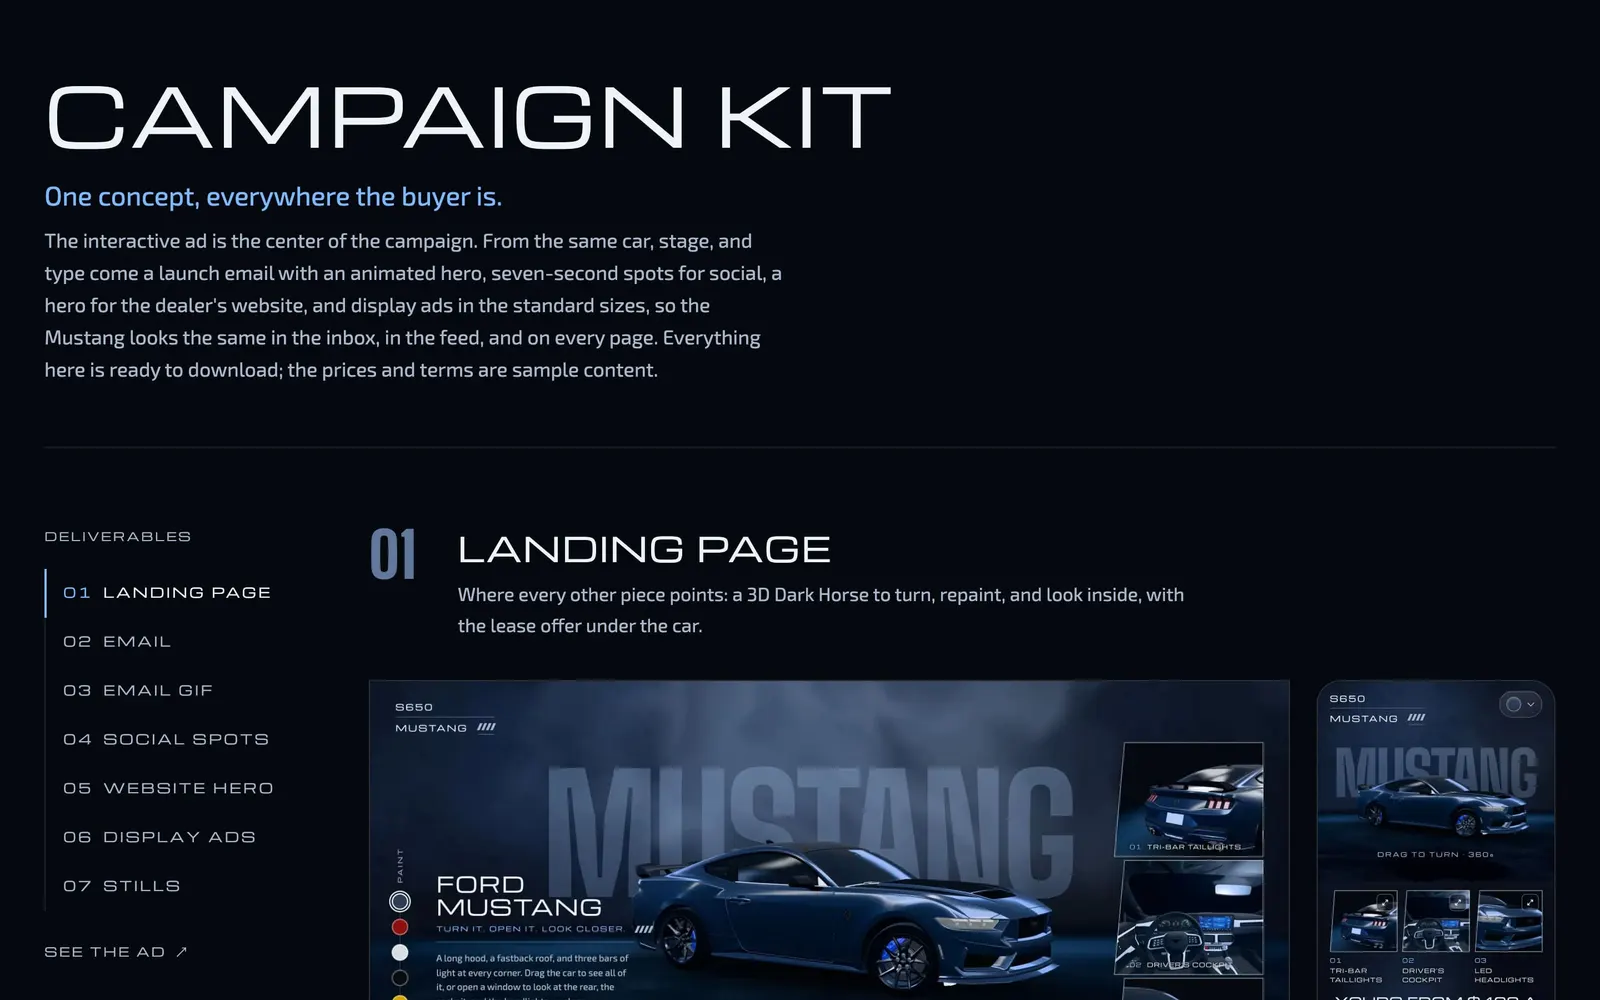
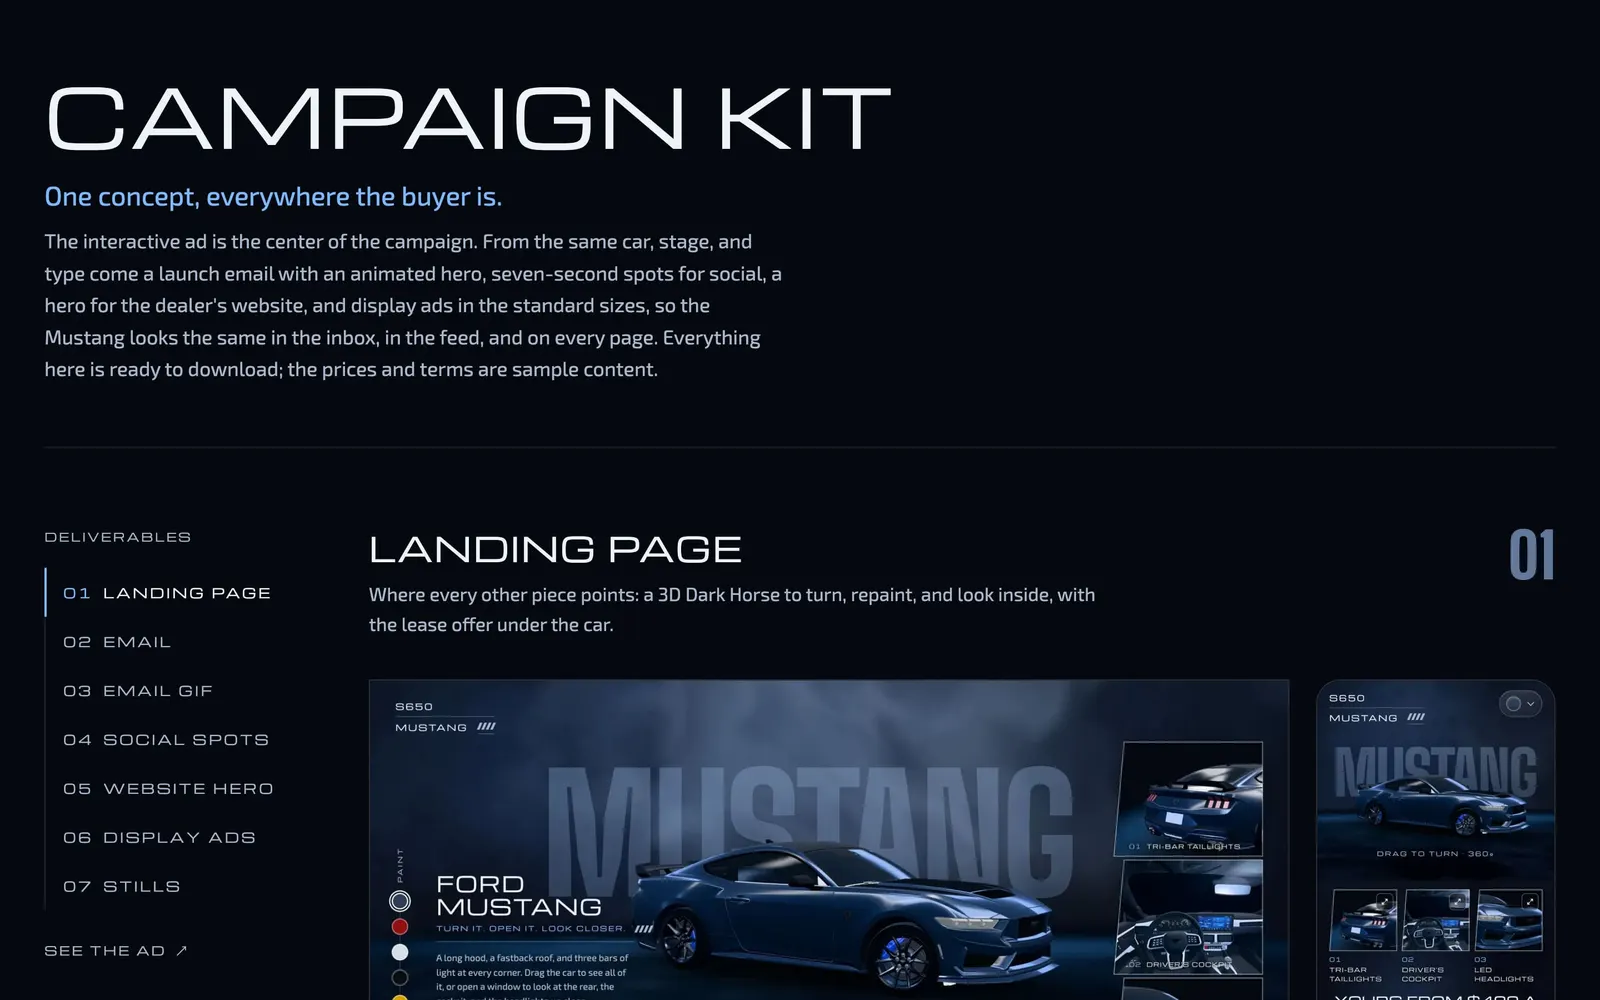
Enhance Mustang campaign kit: update README for clarity, improve CSS styles for ads layout, and adjust image assets for better presentation.

diff --git a/app/pitch/mustang/kit/kit.css b/app/pitch/mustang/kit/kit.css
@@ -5,7 +5,7 @@
 .kit p { margin: 0; }
 .kit-top { display: grid; gap: 6px; justify-items: start; font-family: var(--ms-font-head), sans-serif; font-size: 13px; letter-spacing: 0.18em; text-transform: uppercase; }
 .kit-top span:first-child { padding-bottom: 6px; border-bottom: 1px solid var(--ms-line); }
-.kit-head { padding-bottom: 56px; border-bottom: 1px solid rgba(255, 255, 255, 0.12); }
+.kit-head { padding-bottom: 56px; border-bottom: 1px solid rgba(127, 185, 255, 0.5); }
 .kit-head h1 { margin-top: 72px; font-size: clamp(34px, 5.4vw, 72px); line-height: 1.05; letter-spacing: 0.02em; }
 /* the line under the title, in the accent: the kit's idea in one sentence */
 .kit-tagline { margin-top: 20px !important; font-size: clamp(19px, 1.9vw, 24px); line-height: 1.35; color: var(--ms-accent); }
@@ -39,7 +39,8 @@
 }
 @media (min-width: 1360px) and (prefers-reduced-motion: reduce) { .kit-index ol::before { transition: none; } }
 
-.kit-item { padding: 72px 0; border-bottom: 1px solid rgba(255, 255, 255, 0.12); scroll-margin-top: 24px; }
+.kit-item { padding: 72px 0; border-bottom: 1px solid rgba(127, 185, 255, 0.5); scroll-margin-top: 24px; }
+.kit-item:last-child { border-bottom: 0; }
 .kit-item-head { display: grid; grid-template-columns: 72px minmax(0, 1fr); column-gap: 8px; margin-bottom: 36px; }
 .kit-n { grid-row: span 2; font-family: var(--ms-font-word), Impact, sans-serif; font-weight: 800; font-size: 56px; line-height: 0.9; color: #63799b; }
 .kit-item h2 { font-size: clamp(22px, 2.4vw, 30px); line-height: 1.2; letter-spacing: 0.04em; }
@@ -94,6 +95,14 @@
 .kit-use { font-size: 15px; line-height: 1.45; }
 .kit-note { font-size: 13px; line-height: 1.5; color: var(--ms-ink-2); }
 .kit-spot .kit-dl { margin-top: 6px; }
+/* desktop: the videos share one bottom line and the captions one top line (each figure
+   spans the grid's two rows as a subgrid: videos in the first, captions in the second) */
+@media (min-width: 1000px) {
+  .kit-spots { grid-template-rows: auto auto; row-gap: 16px; align-items: stretch; }
+  .kit-spot { grid-row: span 2; grid-template-rows: subgrid; gap: 16px 0; }
+  .kit-spot video { align-self: end; }
+  .kit-spot figcaption { min-height: 0; }
+}
 .kit-post { display: grid; gap: 10px; margin-top: 40px; padding: 26px 28px; border: 1px solid rgba(255, 255, 255, 0.14); background: rgba(255, 255, 255, 0.03); max-width: 760px; }
 .kit-post-text { font-size: 18px; line-height: 1.55; }
 .kit-post-note { font-size: 13.5px; line-height: 1.55; color: var(--ms-ink-2); }
@@ -104,16 +113,26 @@
 .kit-more { display: flex; flex-wrap: wrap; gap: 12px 28px; margin-top: 20px !important; }
 
 /* display ads: each at its real size (the wide ones scroll sideways on phones), a replay, the downloads */
-.kit-ads { display: flex; flex-wrap: wrap; gap: 40px 36px; align-items: flex-start; }
-.kit-ad { margin: 0; display: grid; gap: 12px; max-width: 100%; }
+/* rows of like shapes divided by hairlines; ads sharing a row are split by a vertical rule, and
+   each ad's label, Replay and downloads keep to the ad's own width (--w, at least 300px) */
+.kit-ads { display: grid; grid-template-columns: minmax(0, 1fr); border-top: 1px solid rgba(255, 255, 255, 0.12); }
+.kit-ads-row { display: flex; flex-wrap: wrap; align-items: flex-start; gap: 32px 0; padding: 36px 0; border-bottom: 1px solid rgba(255, 255, 255, 0.12); }
+.kit-ad { margin: 0; display: grid; gap: 14px; width: max(var(--w), 300px); max-width: 100%; }
+.kit-ads-row > .kit-ad + .kit-ad { margin-left: 40px; padding-left: 40px; border-left: 1px solid rgba(255, 255, 255, 0.12); align-self: stretch; align-content: start; }
 .kit-ad-head { display: flex; align-items: center; justify-content: space-between; gap: 16px; }
-.kit-ad-head p { font-size: 13.5px; color: var(--ms-ink-2); }
-.kit-ad-size { margin-right: 8px; font-family: var(--ms-font-head), sans-serif; font-size: 12px; letter-spacing: 0.1em; color: var(--ms-ink); }
+.kit-ad-head p { display: grid; gap: 4px; font-size: 13.5px; color: var(--ms-ink-2); }
+.kit-ad-size { font-family: var(--ms-font-head), sans-serif; font-size: 12px; letter-spacing: 0.1em; color: var(--ms-ink); }
 .kit-replay { min-height: 32px; padding: 0 12px; border: 1px solid rgba(255, 255, 255, 0.3); background: none; color: var(--ms-ink); font-family: var(--ms-font-head), sans-serif; font-size: 10px; letter-spacing: 0.16em; text-transform: uppercase; cursor: pointer; }
 .kit-replay:hover { border-color: var(--ms-ink); }
 .kit-ad-frame { max-width: 100%; overflow-x: auto; }
 .kit-ad-frame iframe { display: block; border: 0; }
 .kit-ad figcaption { display: flex; flex-wrap: wrap; gap: 8px 20px; }
+@media (max-width: 999px) {
+  /* narrower: one ad per line, each with its own hairline */
+  .kit-ads-row { display: contents; }
+  .kit-ad { padding: 32px 0; border-bottom: 1px solid rgba(255, 255, 255, 0.12); }
+  .kit-ads-row > .kit-ad + .kit-ad { margin-left: 0; padding-left: 0; border-left: 0; }
+}
 
 /* stills */
 .kit-stills { display: grid; grid-template-columns: repeat(3, minmax(0, 1fr)); gap: 24px; }

diff --git a/components/mustang/KitAds.js b/components/mustang/KitAds.js
@@ -11,7 +11,7 @@ const Down = () => (
 function Ad({ ad, base }) {
   const [run, setRun] = useState(0);
   return (
-    <figure className={`kit-ad kit-ad-${ad.id}`}>
+    <figure className={`kit-ad kit-ad-${ad.id}`} style={{ "--w": `${ad.w}px` }}>
       <div className="kit-ad-head">
         <p><span className="kit-ad-size">{ad.id.replace("x", " × ")}</span> {ad.name}</p>
         <button type="button" className="kit-replay" onClick={() => setRun((n) => n + 1)} aria-label={`Replay the ${ad.id} ad`}>Replay</button>
@@ -28,6 +28,22 @@ function Ad({ ad, base }) {
   );
 }
 
+// Rows of like shapes, divided by hairlines (kit.css) so each ad reads with its own label,
+// Replay and downloads: the billboard, the leaderboard, the two tall ones, then the rectangle
+// beside the mobile banner.
+const ROWS = [["970x250"], ["728x90"], ["300x600", "160x600"], ["300x250", "320x50"]];
+
 export default function KitAds({ ads, base }) {
-  return <div className="kit-ads">{ads.map((ad) => <Ad key={ad.id} ad={ad} base={base} />)}</div>;
+  const byId = Object.fromEntries(ads.map((a) => [a.id, a]));
+  const placed = new Set(ROWS.flat());
+  const rows = [...ROWS.map((r) => r.map((id) => byId[id]).filter(Boolean)), ads.filter((a) => !placed.has(a.id))].filter((r) => r.length);
+  return (
+    <div className="kit-ads">
+      {rows.map((row) => (
+        <div className="kit-ads-row" key={row[0].id}>
+          {row.map((ad) => <Ad key={ad.id} ad={ad} base={base} />)}
+        </div>
+      ))}
+    </div>
+  );
 }

diff --git a/app/pitch/mustang/README.md b/app/pitch/mustang/README.md
@@ -113,7 +113,7 @@ The deliverables page for the dealer's team (added 2026-11-19, noindex; linked f
 
 **How they're made.** `/pitch/mustang/spot/?f=story|feed|wide|gif|still[&view=rear|cockpit|lights][&paint=<id>]` (noindex) lays the stage out for one deliverable, sized in viewport units, and renders `CarStage` with a `spot` prop (`FORMATS` in its page.js): no windows, paint controls or hints, and the car on a clock — `spin` (rad/s), `yaw0`, `intro` (the landing's camera glide), `view` (hold a feature pose), `paint`, `zoom` (× the full view's fov) and `lift` (raises the car in its view, a share of its height). When the clock starts, CarStage sets `data-spot="go"` on the stage (the copy's CSS timeline keys off it) and `window.__msSpotT0` (Date.now()). Every view spans the frame's full width — a narrower view cuts the floor shader off in a hard edge; the car's size comes from `zoom` alone. Open it at the deliverable's exact pixel size with a device scale of 1 (all ≥1080px wide, so the landing's phone rules never apply), in GPU headless Chrome: start `Page.startScreencast` **before** navigating (started after, it delivered no frames), keep the frames whose timestamps fall in [T0, T0 + 7s) for a spot or [T0 + 6s, T0 + 12s) for the GIF (one whole turn, so it loops seamlessly), and encode with the scratch `ffmpeg-static` (`~/.local/opt/ffmpeg/node_modules/ffmpeg-static/ffmpeg`): concat list with each frame's real duration → `fps=30`; the GIF via `palettegen`/`paletteuse`. Stills are plain screenshots of `f=still` at 1200×800, resized to 600×400. Re-record them if the car, stage or offer changes.
 
-Checked: axe (WCAG A/AA + best practice) clean on the kit and the email at 1440 and 390 (the email's landmark notes don't apply to email, which has none); the kit's decorative numerals are #63799b (3:1 for their size). At ≥1000px each section's numeral sits at the right end of its head, level with the title (since 2026-11-21); narrower, it stays left of the title.
+Checked: axe (WCAG A/AA + best practice) clean on the kit and the email at 1440 and 390 (the email's landmark notes don't apply to email, which has none); the kit's decorative numerals are #63799b (3:1 for their size). At ≥1000px each section's numeral sits at the right end of its head, level with the title (since 2026-11-21); narrower, it stays left of the title. The social spots (≥1000px) are a two-row subgrid: the three videos share one bottom line and their captions one top line. The display ads (`KitAds`, since 2026-11-21) sit in rows of like shapes divided by hairlines — the billboard, the leaderboard, the two 600-tall ones, then the rectangle beside the mobile banner (`ROWS`) — with a vertical rule between ads that share a row; each ad's size over its name, Replay and downloads keep to the ad's own width (at least 300px); below 1000px it's one ad per line, each with its own hairline. The section dividers (under the head and between sections, none under the last) are the accent blue (`--ms-accent`, #7fb9ff) at 50%; the hairlines inside sections stay white at 12%.
 
 The `/mustang` case study links the kit (2026-11-19): in the hero facts ("The ad · The campaign kit"), What's Built, the closing call to action (a second button, `cyril-type-2`, in `.cyril-case-cta-actions`), and "One Concept, Many Channels", which shows the kit page (`mustang_desktop-kit.jpg`), the email on desktop and phone (`mustang_email-{desktop,phone}.jpg`, captured from email.html at 680px and 375px @2x), the GIF, the three spots, the website hero (`hero/mustang-hero.mp4`, poster `hero/mustang-hero-poster.webp`), and three display-ad GIFs (970 × 250, 300 × 600, 300 × 250), played straight from `/pitch/mustang/kit/` (their sizes are in `videoSizes.json`; `VideoFigure` finds the posters beside them). Re-capture those screenshots if the kit or the email changes.
 
